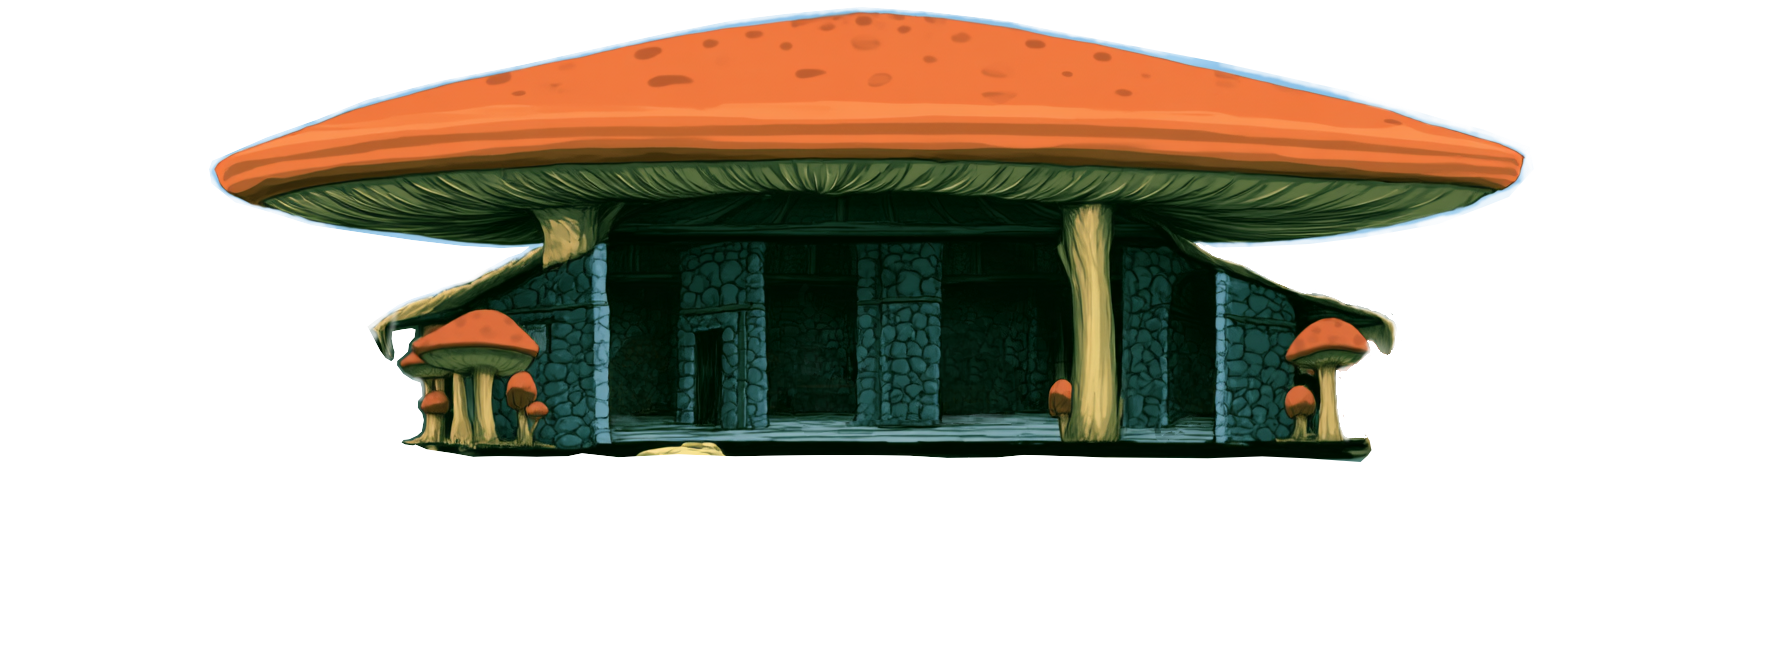
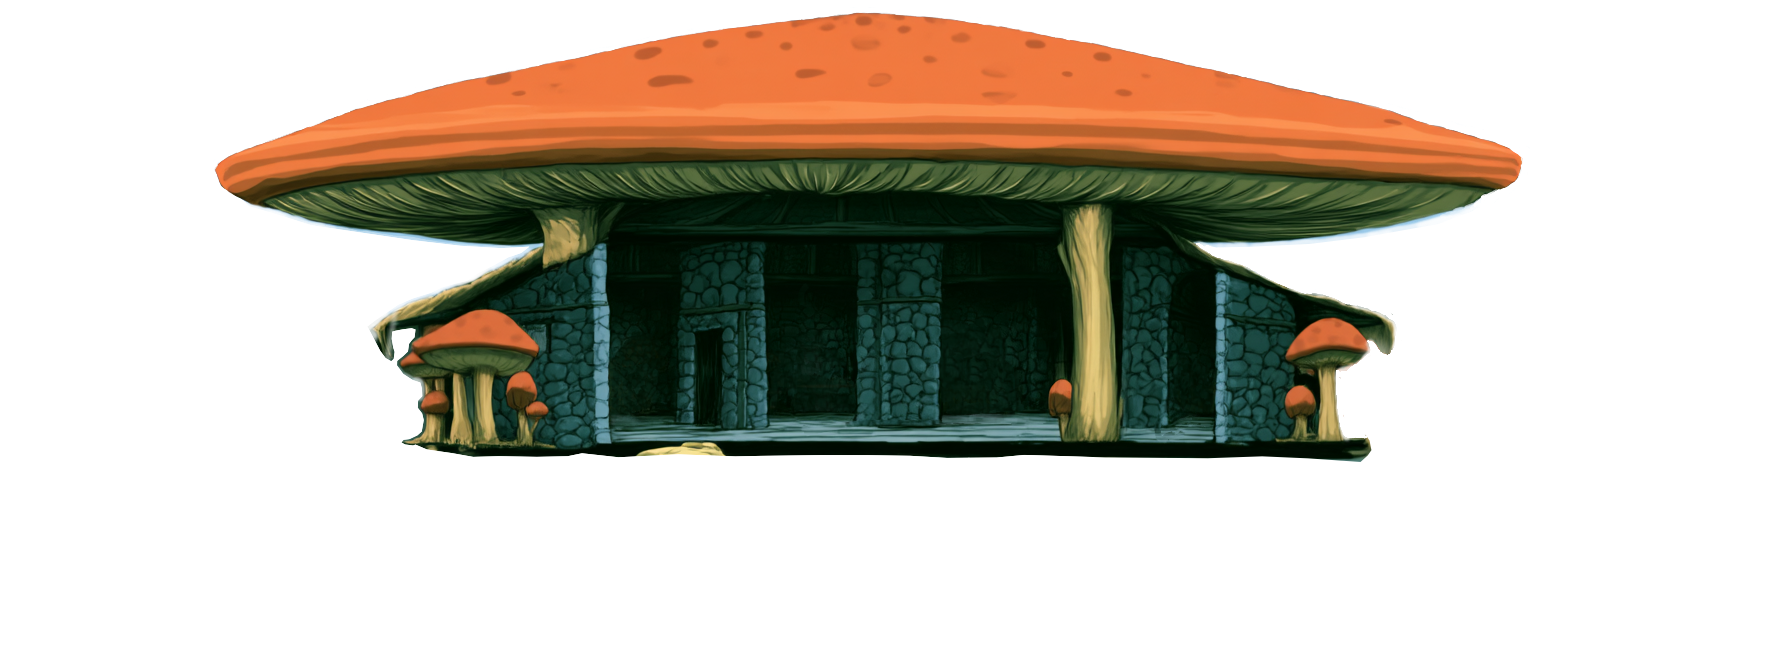
Lagerbild: Wackelige Hütte und Steinhäuschen ohne hellen Rand
Die Nutzerin hat die Gebäude der Stufen 3 und 5 neu freigestellt; der
hellblaue Saum am Dach ist weg. Version 4.15.1.

Claude-Session: https://claude.ai/code/session_0117M4aYJ5RoPwj7oU8m6XcB

diff --git a/sw.js b/sw.js
@@ -5,7 +5,7 @@
 // The real app and its test copy can lie side by side on one web space.
 // Each keeps its own store, named after its folder, and only clears its own.
 const FOLDER = new URL(self.registration.scope).pathname;
-const CACHE = `envoy-v32 ${FOLDER}`;
+const CACHE = `envoy-v33 ${FOLDER}`;
 const NETWORK_TIMEOUT_MS = 3500;
 
 self.addEventListener('install', () => self.skipWaiting());

diff --git a/js/config.js b/js/config.js
@@ -1,7 +1,7 @@
 // Fixed values of the game. Everything the rules depend on lives here,
 // so it can be checked in one place against docs/spezifikation.md.
 
-export const APP_VERSION = '4.15.0';
+export const APP_VERSION = '4.15.1';
 
 // Pictures are asked for with the version of the app, so after an update a
 // device fetches a new drawing instead of showing an old copy it kept.
